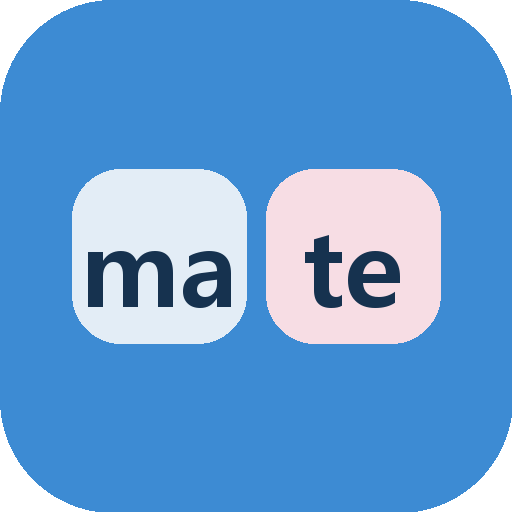
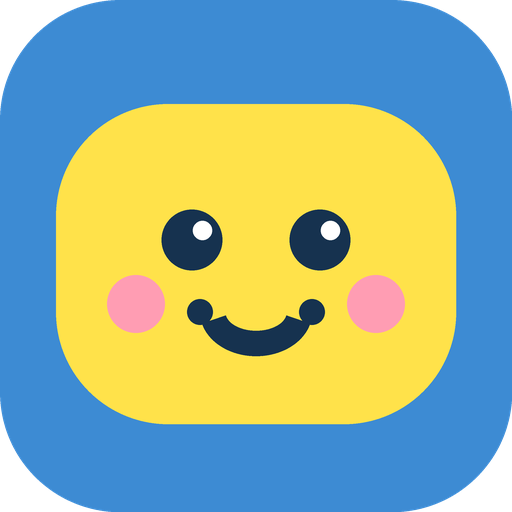
파비콘·앱 아이콘을 얼굴 캐릭터로 교체 (작은 크기 시안성)
칩 두 개 도안은 16~32px 에서 점 두 개로만 보였다. 파란 바탕 위 노란 힌트 칩에
눈·입·볼을 붙인 얼굴로 바꿔 작은 크기에서도 읽히게 했다. SVG 와 PNG 가 같은 좌표를 쓴다.

diff --git a/scripts/make-icons.py b/scripts/make-icons.py
@@ -50,25 +50,36 @@ def chips(draw, x, y, parts, size, pad_x, pad_y, gap, colors=(CHIP_A, CHIP_B), i
     return cx - gap - x
 
 
+CHEEK = "#FF9DB3"
+
+
 def icon(size):
-    """앱 아이콘: 파란 바탕에 덩어리 칩 두 개."""
-    img = Image.new("RGBA", (size, size), (0, 0, 0, 0))
+    """앱 아이콘: 파란 바탕 위, 노란 힌트 칩에 얼굴을 붙인 캐릭터 (favicon.svg 와 같은 도안).
+    작은 크기에서도 눈·입이 읽히도록 4배로 그려서 줄인다."""
+    S = size * 4
+    img = Image.new("RGBA", (S, S), (0, 0, 0, 0))
     d = ImageDraw.Draw(img)
-    rounded(d, (0, 0, size, size), size * 0.22, ACC)
-    s = size
-    gap = s * 0.04
-    h = s * 0.34
-    w = (s * 0.72 - gap) / 2
-    x0 = (s - (w * 2 + gap)) / 2
-    y0 = (s - h) / 2
-    rounded(d, (x0, y0, x0 + w, y0 + h), h * 0.28, CHIP_A)
-    rounded(d, (x0 + w + gap, y0, x0 + w * 2 + gap, y0 + h), h * 0.28, CHIP_B)
-    if size >= 96:
-        f = font(int(h * 0.62))
-        for txt, cx in (("ma", x0 + w / 2), ("te", x0 + w + gap + w / 2)):
-            tw = d.textlength(txt, font=f)
-            d.text((cx - tw / 2, y0 + h * 0.12), txt, font=f, fill=INK)
-    return img
+    u = S / 64  # favicon.svg 의 64 단위 좌표를 그대로 쓴다
+    rounded(d, (0, 0, S, S), 15 * u, ACC)
+    rounded(d, (7 * u, 13 * u, 57 * u, 53 * u), 14 * u, HL)
+
+    def dot(cx, cy, r, fill):
+        d.ellipse((cx * u - r * u, cy * u - r * u, cx * u + r * u, cy * u + r * u), fill=fill)
+
+    # 볼
+    dot(17, 38, 3.6, CHEEK)
+    dot(47, 38, 3.6, CHEEK)
+    # 눈 + 반짝임
+    dot(24, 30, 3.8, INK)
+    dot(40, 30, 3.8, INK)
+    dot(25.3, 28.8, 1.2, "#FFFFFF")
+    dot(41.3, 28.8, 1.2, "#FFFFFF")
+    # 입 (M25 39 Q32 46 39 39 와 같은 호)
+    d.arc((25 * u, 33.5 * u, 39 * u, 44.5 * u), start=15, end=165, fill=INK, width=int(3.2 * u))
+    for cx, cy in ((25, 39), (39, 39)):
+        dot(cx, cy, 1.6, INK)
+
+    return img.resize((size, size), Image.LANCZOS)
 
 
 def og():
